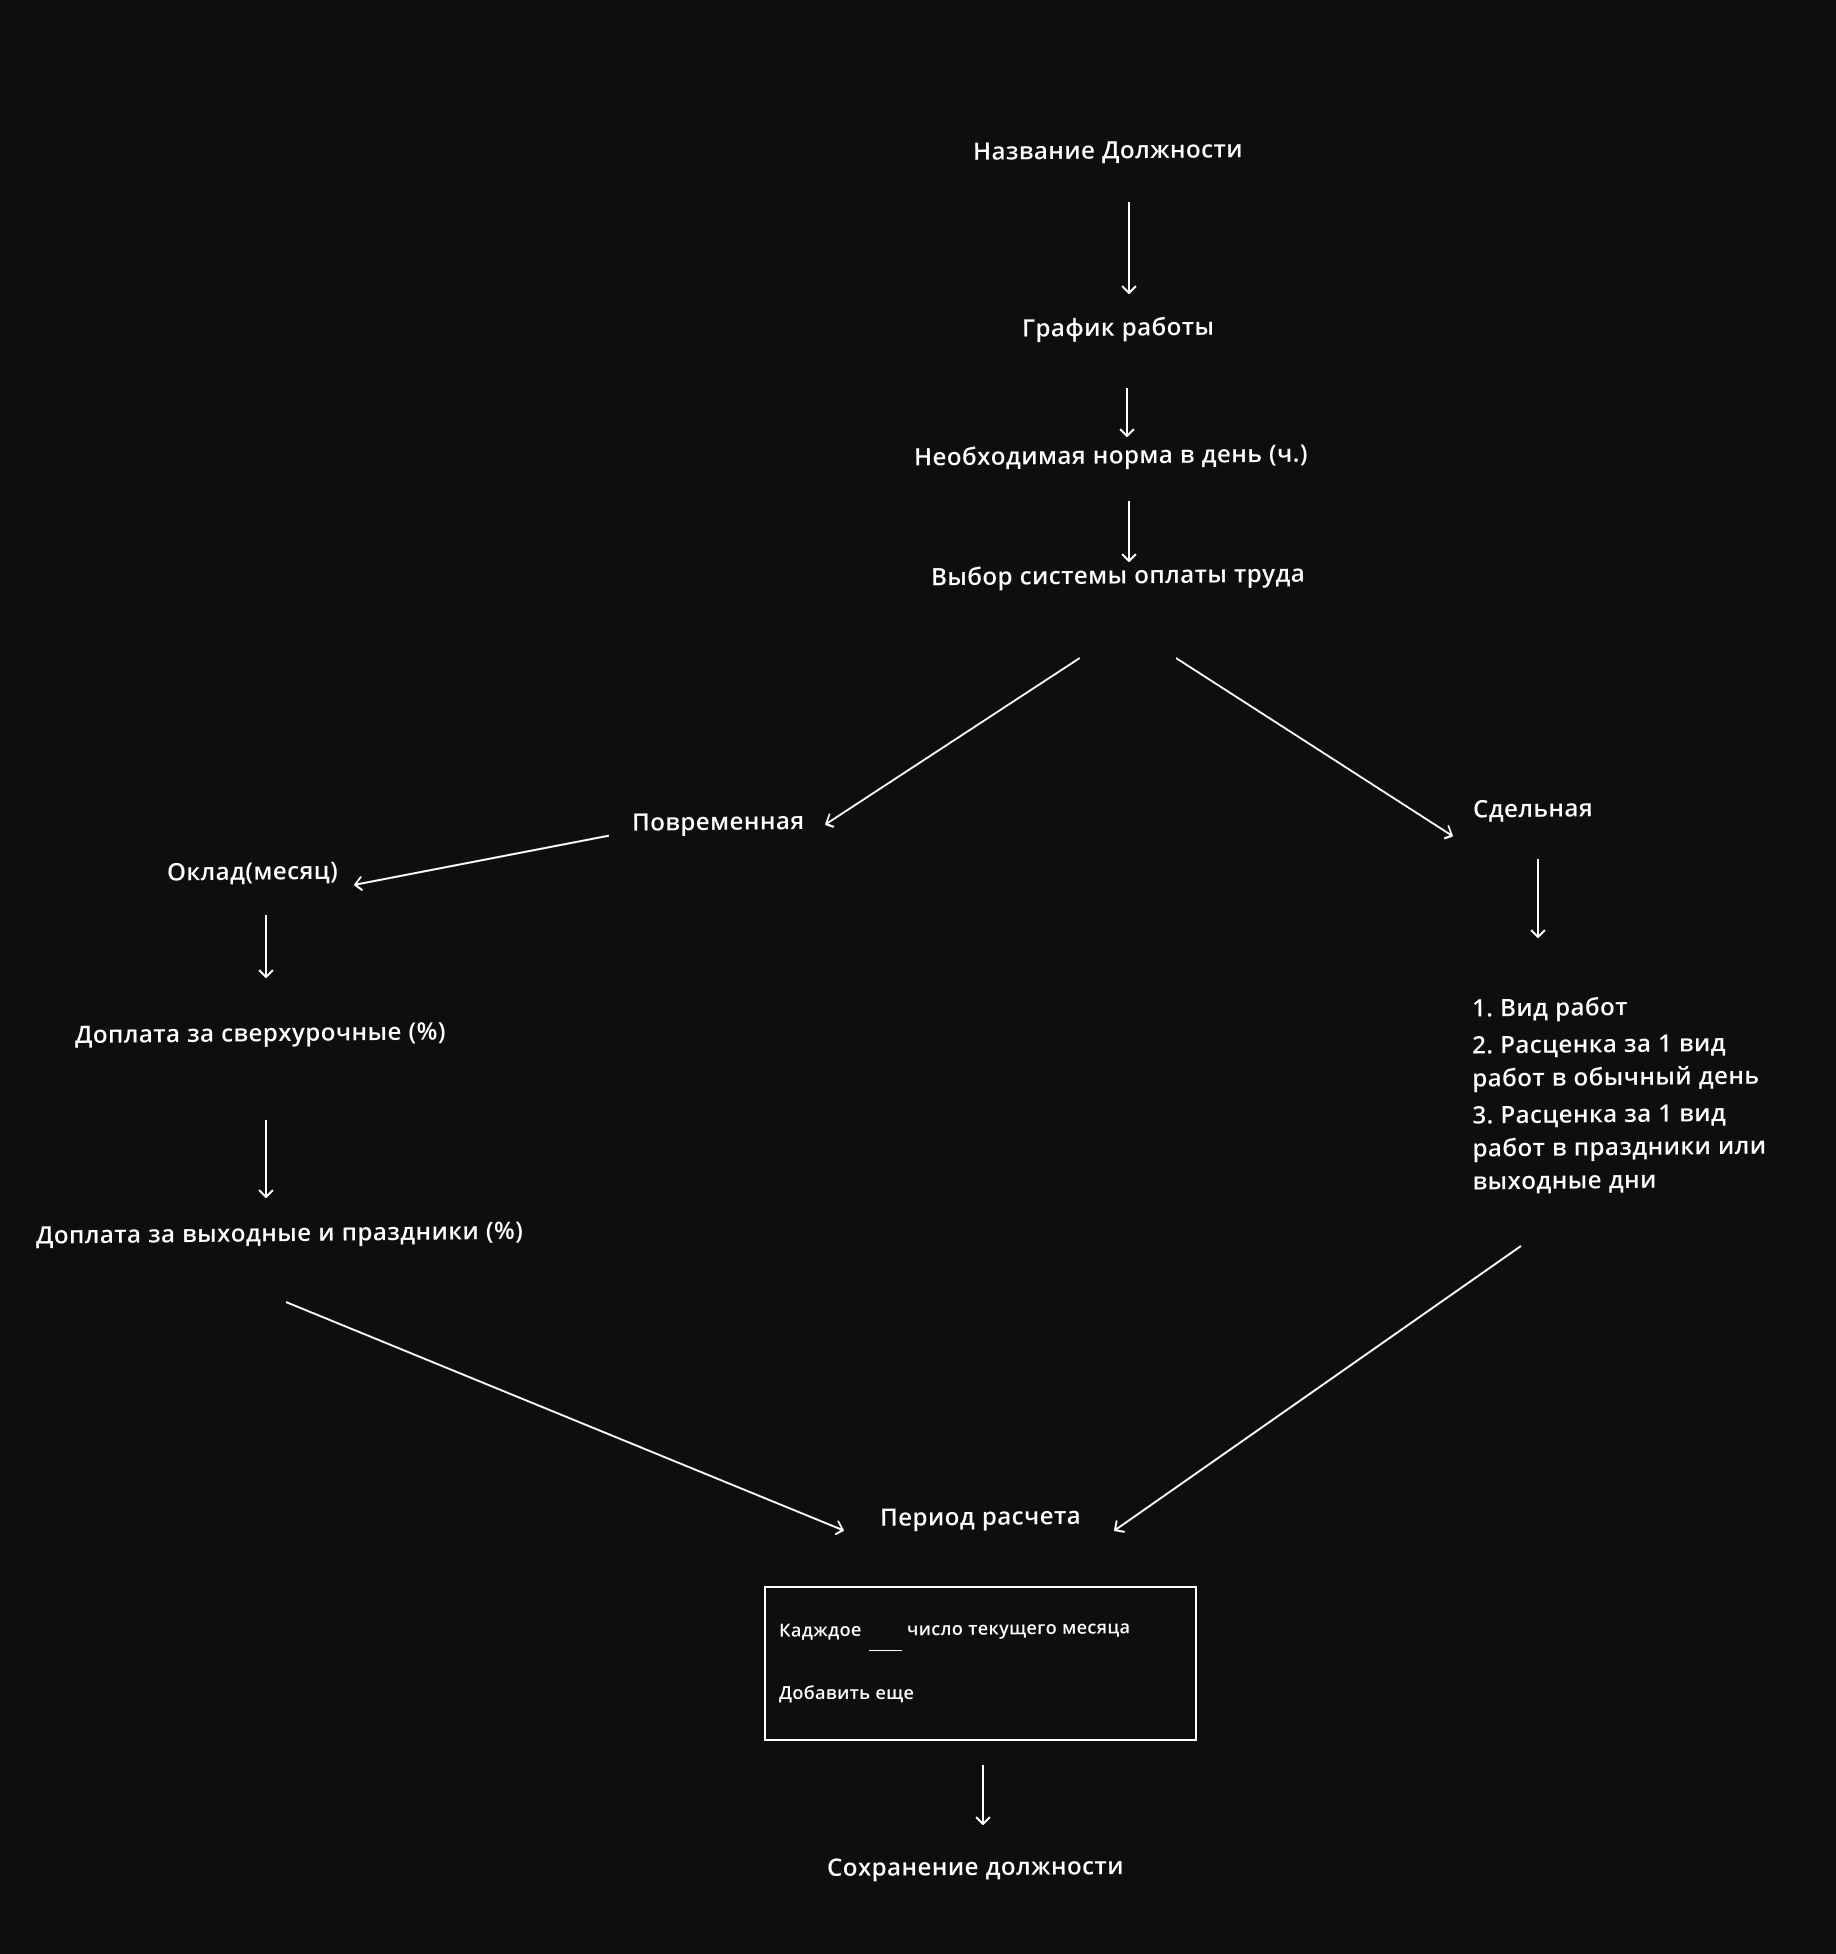
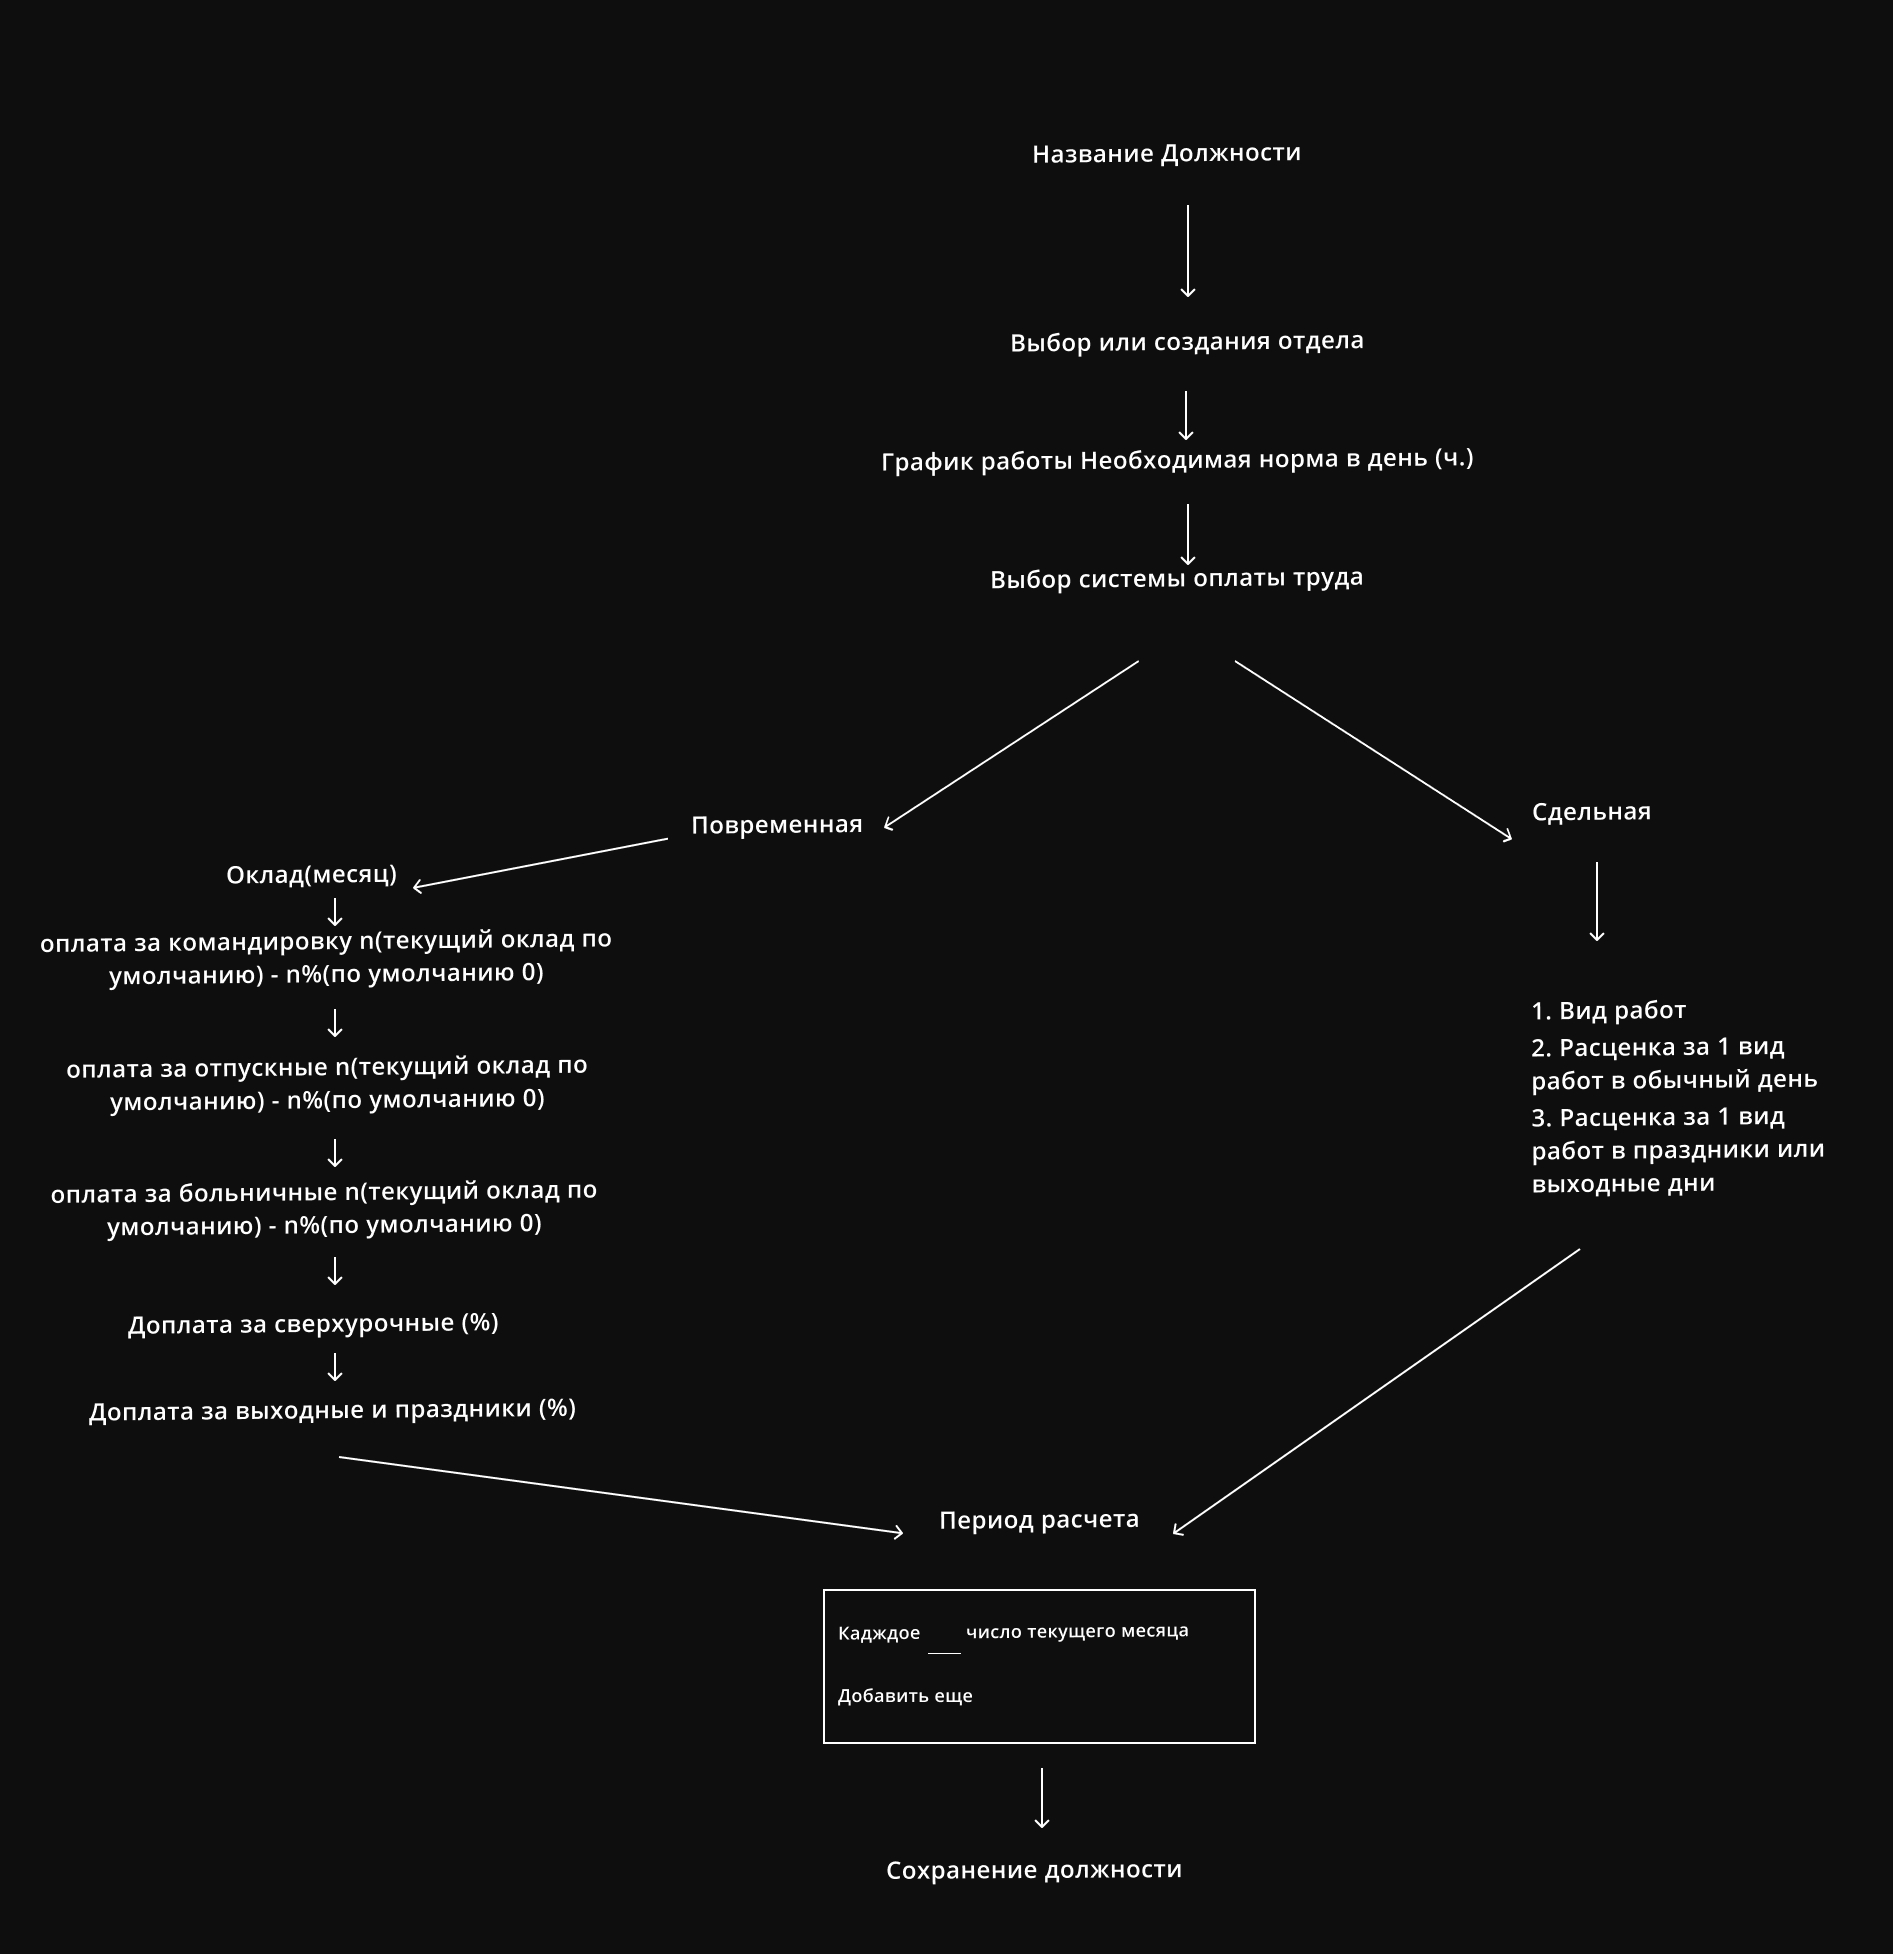
правки

diff --git a/_docs/Scenario/addEmployee.md b/_docs/Scenario/addEmployee.md
@@ -23,12 +23,16 @@ published: true
 <h5>Модуль создания должности</h5>
  Модуль создания должности располагается отдельно, его задача задача заключается в сборе необходимой информации о должности привязанной к сотруднику. Не имеет значение поочередность действий пользователя, так как форма добавления сотрудника имеет прямой доступ к текущему модулю и наоборот. Данная форма обязуют пользователя заполнить следующие поля ввода данных:
  1. Название должности - поле включает в себя проверку на валидность (должно иметь необходимый формат). Целью создания является удобство пользователя, возможное идентифицирование аккаунта.<br>
- 2. График работы (включая установку необходимой нормы в рабочий день) - допускается интегрирование данной формы на отдельный экран в целях удобства. График работы должен включать в себя выбор рабочих дней сотрудника, возможность установки ненормированного графика, установка необходимой нормы отработанных часов в рабочий день.<br>
- 3. Выбор системы оплаты труда работнику - в первой версии проекта планируется два вида системы оплаты: повременная, сдельная. <br>
+ 2. Выбор отдела - выбор из текущего списка отделов либо добавления нового<br>
+ 3. График работы (включая установку необходимой нормы в рабочий день) - допускается интегрирование данной формы на отдельный экран в целях удобства. График работы должен включать в себя выбор рабочих дней сотрудника, возможность установки ненормированного графика, установка необходимой нормы отработанных часов в рабочий день.<br>
+ 4. Выбор системы оплаты труда работнику - в первой версии проекта планируется два вида системы оплаты: повременная, сдельная. <br>
 
 Подробное описание элемента выбора системы оплаты труда.<br>
 В случае выбора варианта с повременной оплатой пользователю открывается доступ к следующим полям ввода информации:<br>
 --- Месячный оклад - заполнение фиксированного месячного оклада сотрудника. Возможность добавления нецелого числа. Поле должно включать в себя проверку на валидность (макс. значение, ввод только числовых значений)<br>
+--- Оплата за командировку в день (-%)<br>
+--- Оплата за отпускные в день (-%)<br>
+--- Оплата за больничные в день (-%)<br>
 --- Доплата за сверхурочные - ввод % доплаты сотруднику за переработку. Устанавливается число от 0(по умолчанию) до 100 за час переработок.<br>
 --- Доплата за выходные и праздники. Устанавливается % за час переработанного времени в выходные дни и праздники.<br>
 Если пользователь предпочел выбрать сдельную оплату труда, то ему предоставляется доступ к следующим полям ввода данных:<br>
